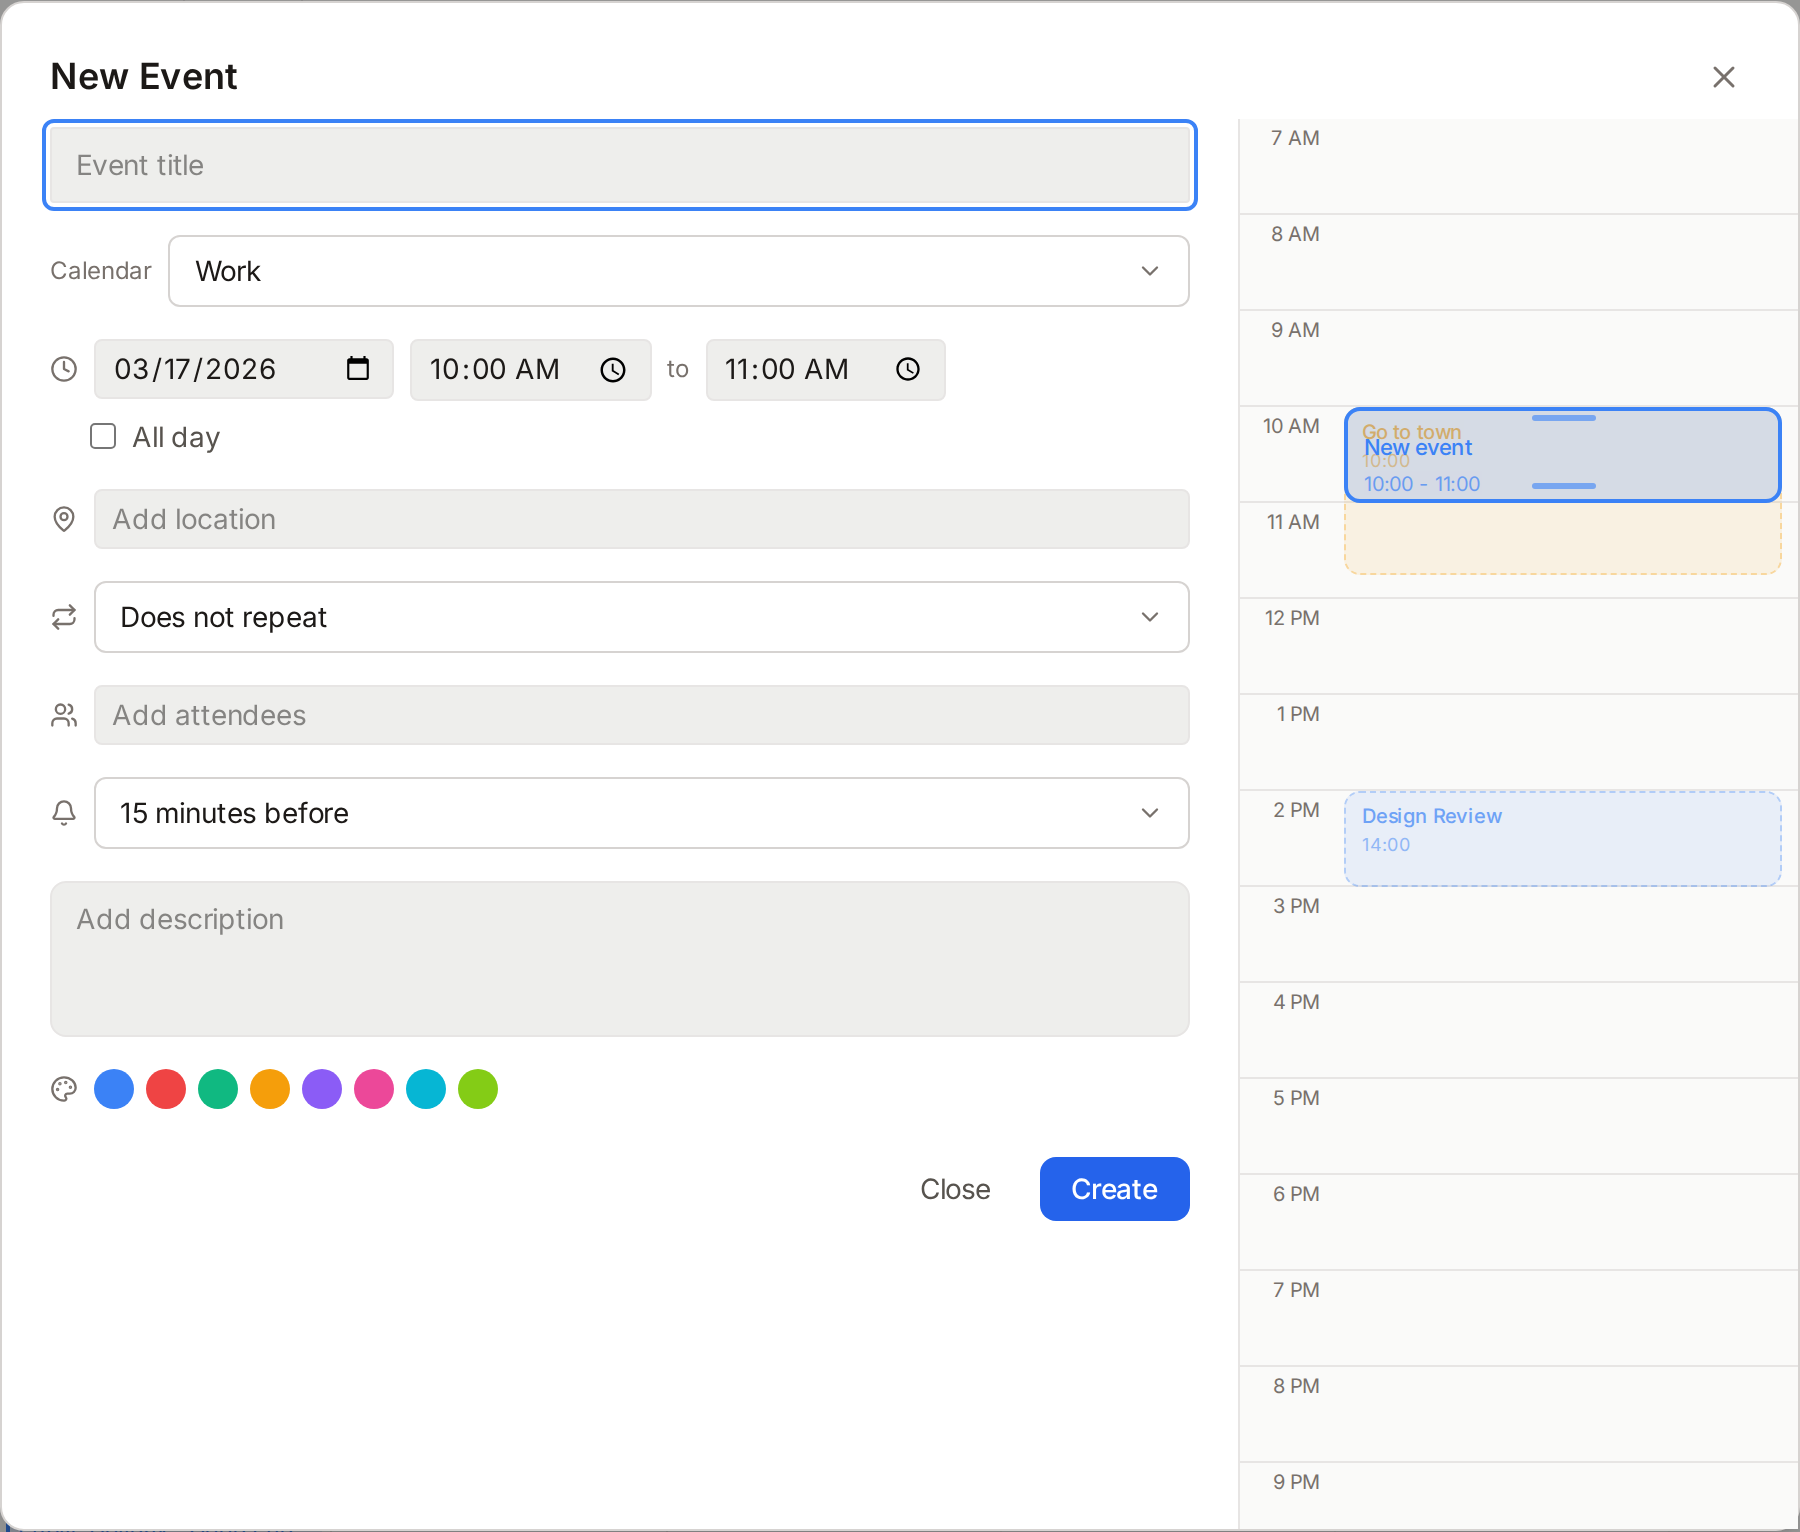
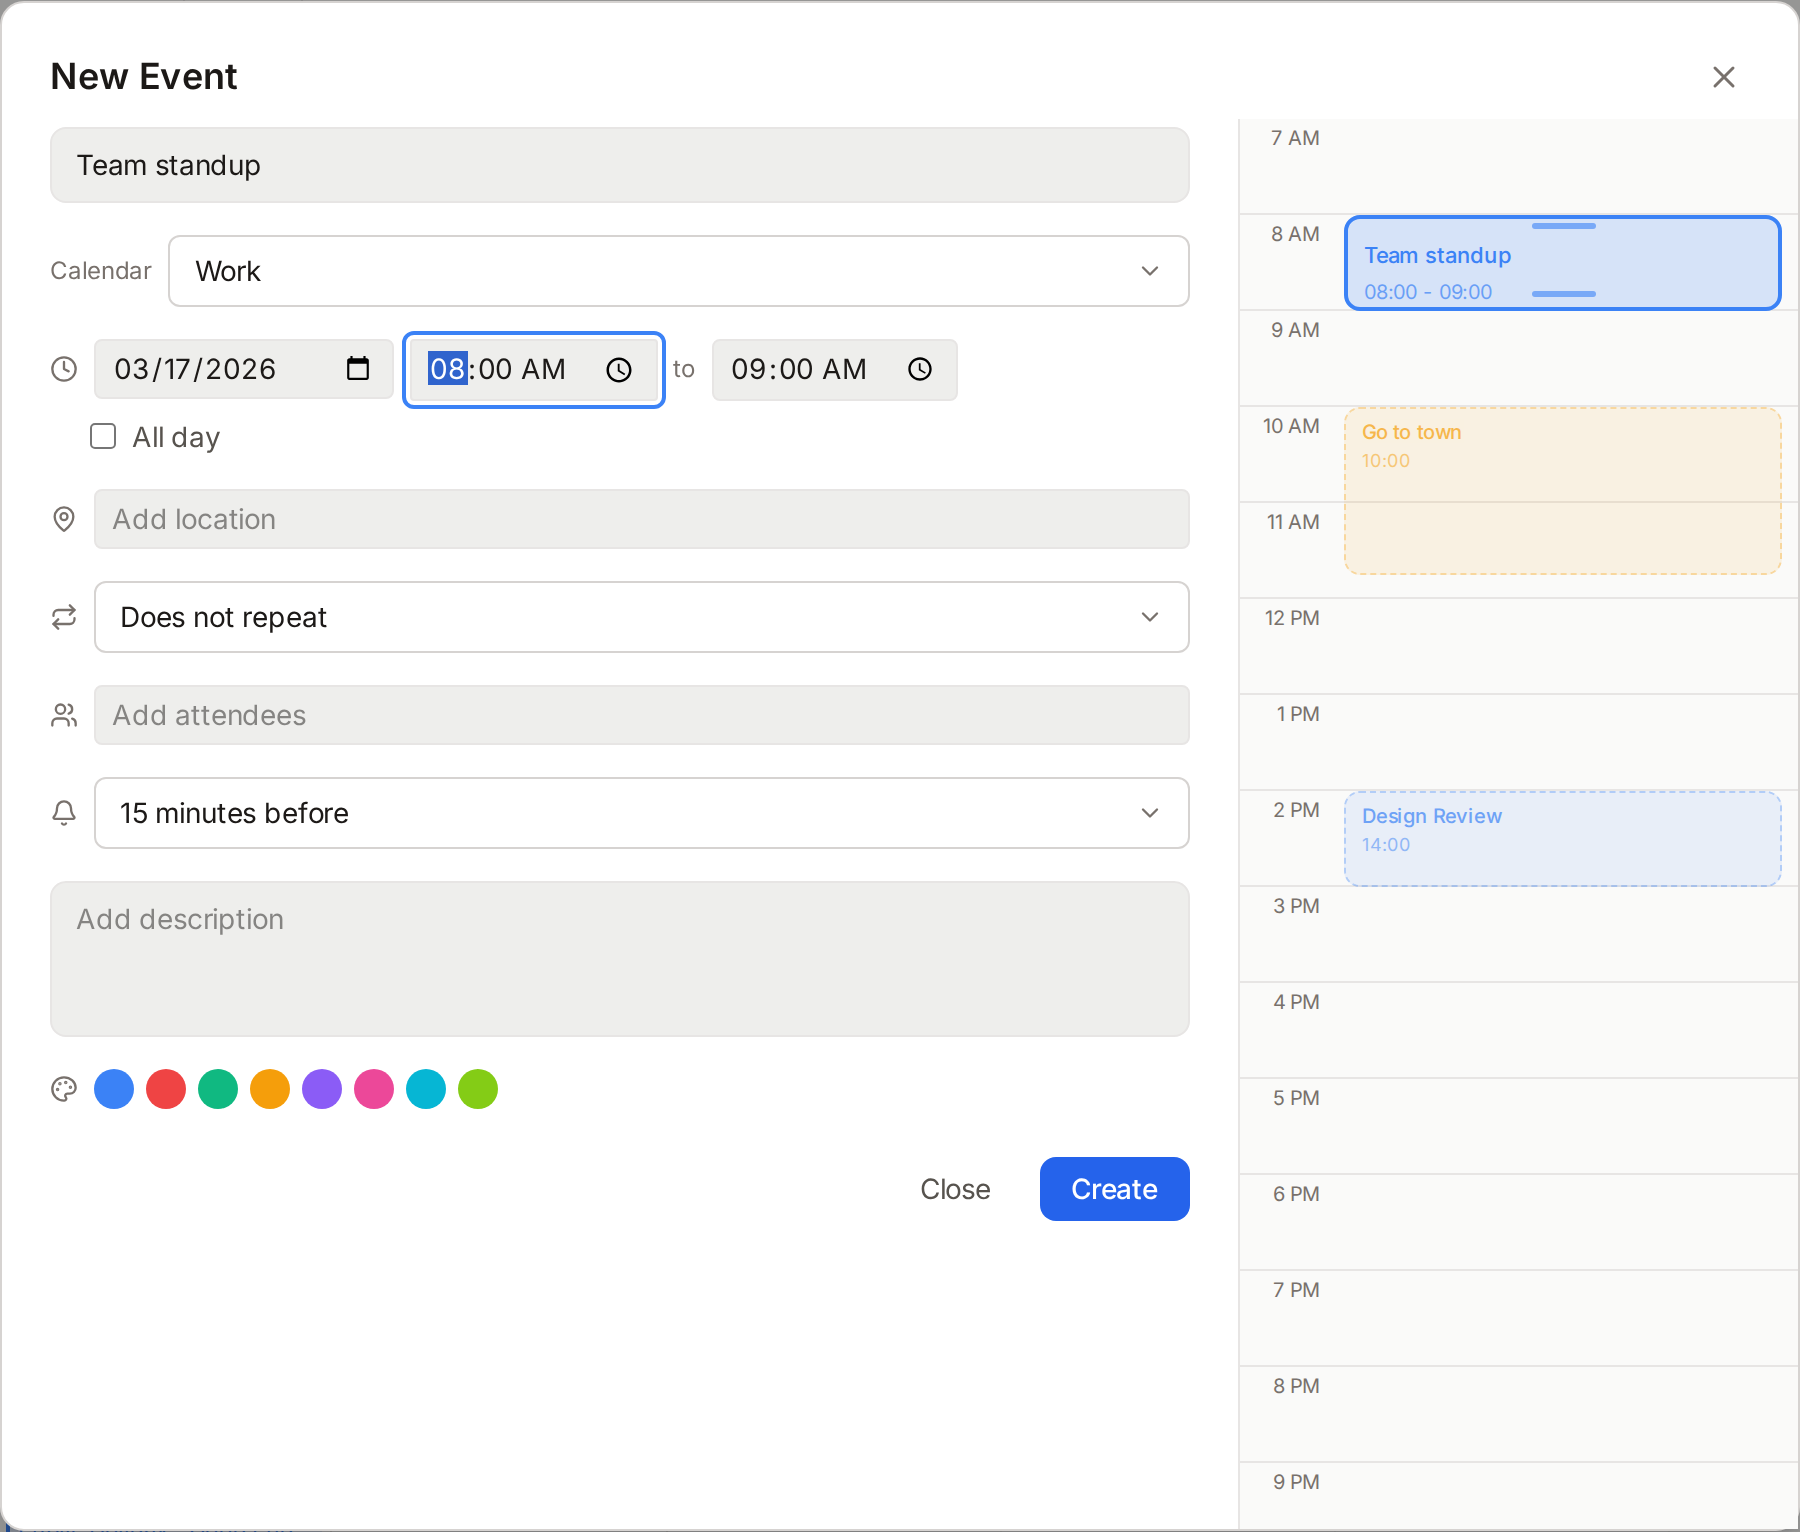
Fix calendar event screenshot: set 08:00 time to avoid overlapping events
Fills in "Team standup" title and sets start time to 08:00 so the
day timeline shows existing events without visual overlap.

diff --git a/capture-screenshots.ts b/capture-screenshots.ts
@@ -282,6 +282,18 @@ test.describe("Feature Screenshots", () => {
       await newEventBtn.click();
       await page.waitForTimeout(1000);
     }
+    // Fill in a title so the form looks polished
+    const titleInput = page.locator('input[placeholder*="title" i], input[placeholder*="tittel" i]').first();
+    if (await titleInput.isVisible({ timeout: 1000 }).catch(() => false)) {
+      await titleInput.fill("Team standup");
+      await page.waitForTimeout(300);
+    }
+    // Set start time to 08:00 to avoid overlapping with other events
+    const timeInput = page.locator('input[type="time"]').first();
+    if (await timeInput.isVisible({ timeout: 1000 }).catch(() => false)) {
+      await timeInput.fill("08:00");
+      await page.waitForTimeout(300);
+    }
     // Crop to the dialog
     const dialog = page.locator('[role="dialog"]').first();
     if (await dialog.isVisible({ timeout: 2000 }).catch(() => false)) {
